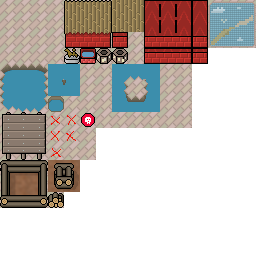
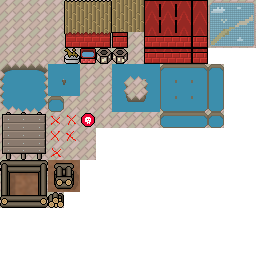
Little fixes. Skinny water for city, summoner timing

Changed region(s): [[0.625, 0.25, 0.875, 0.5]]

diff --git a/src/main/ps_main.c b/src/main/ps_main.c
@@ -42,7 +42,7 @@ static struct ps_gui *ps_gui=0;
 static int ps_setup_test_game(const struct ps_cmdline *cmdline) {
   int i;
 
-  if (1) { // Normal interactive setup.
+  if (0) { // Normal interactive setup.
     return 0;
   }
 
@@ -67,9 +67,9 @@ static int ps_setup_test_game(const struct ps_cmdline *cmdline) {
 
   } else { // Generate a test scenario -- good for blueprint test drives.
     if (ps_game_generate_test(ps_game,
-      8, // regionid, negative means random
+      -1, // regionid, negative means random
       // blueprintid. At least one must have adequate HERO POI:
-      1,53
+      2,40
     )<0) return -1;
   }
 

diff --git a/src/game/ps_summoner.c b/src/game/ps_summoner.c
@@ -66,7 +66,9 @@ static int ps_summoner_sprite_limit_for_volume(int volume) {
 }
 
 static int ps_summoner_delay_for_volume(int volume) {
-  int delay=volume*5;
+  int delay=(100-volume)*2+60;
+  if (delay<60) return 60;
+  if (delay>240) return 240;
   return delay;
 }
 
